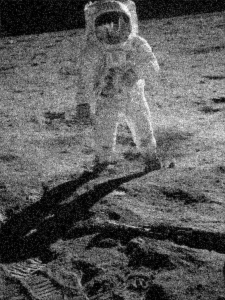
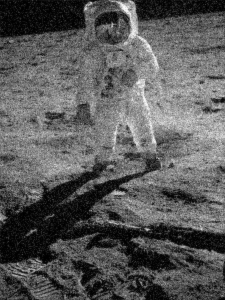
test

diff --git a/optimization/proyectos/proyecto_final.py b/optimization/proyectos/proyecto_final.py
@@ -299,9 +299,9 @@ opt = Gradiente(
     x_0     = energia.f_vec.copy(),                   # inicialización = imagen ruidosa
     v_0     = np.zeros_like(energia.f_vec),
     #alpha   = 5e-4,
-    alpha   = 4e-2,                                   
+    alpha   = 2e-2,                                   
     iteraciones = 1500,
-    epsilon = 1e-5,
+    epsilon = 1e-6,
     eta     = 0.8
 )
 
